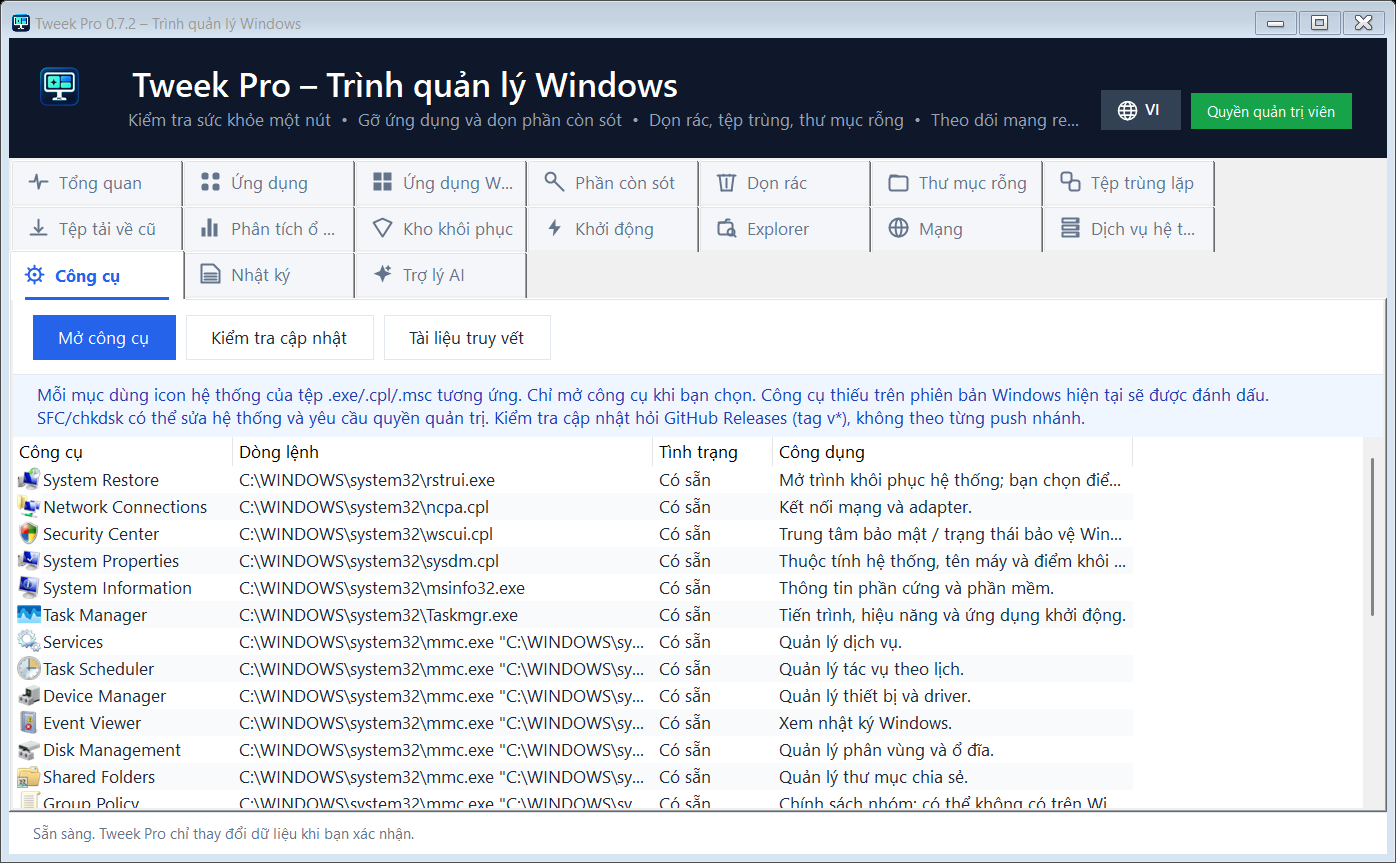
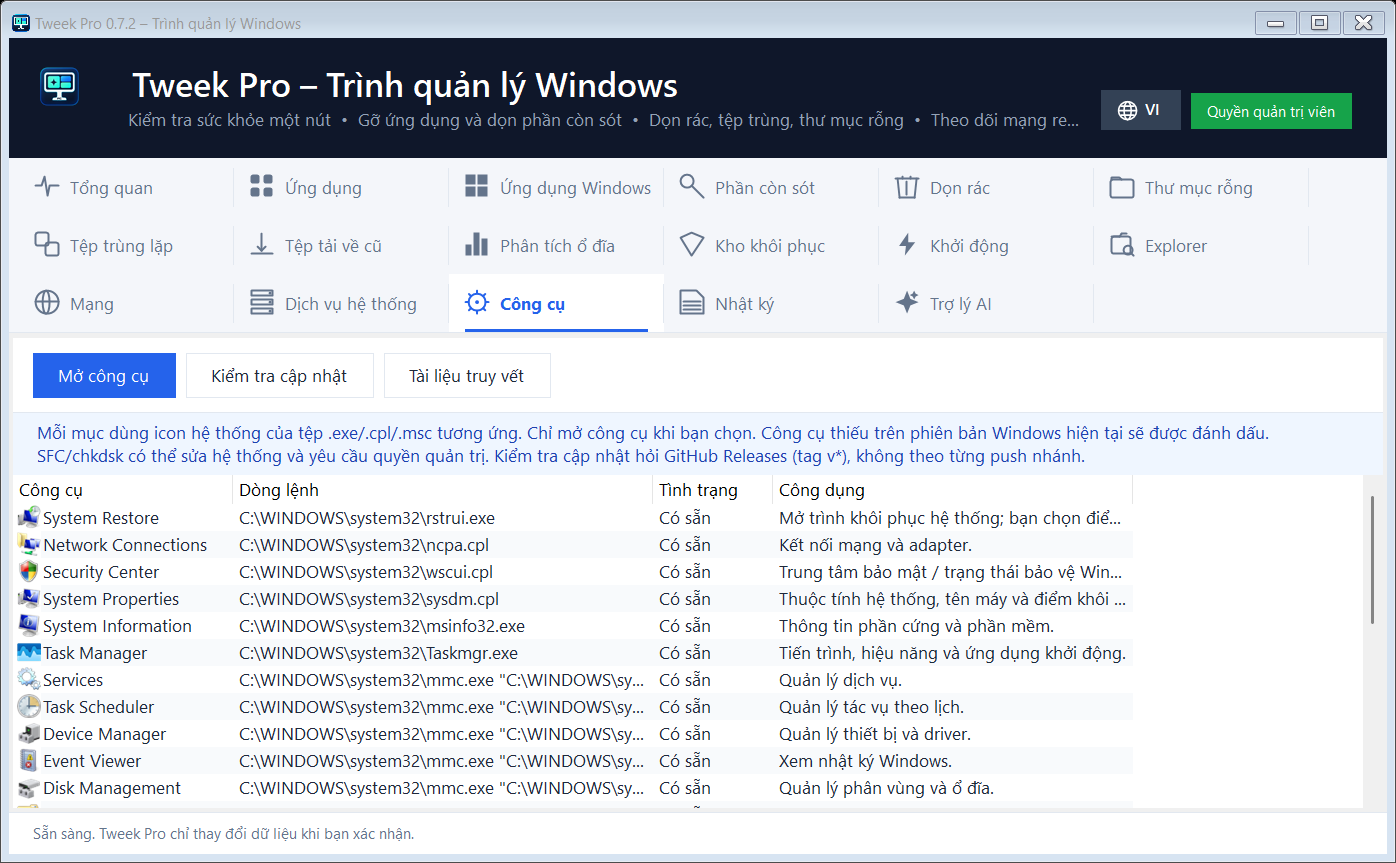
Fixed-order tab strip: multiline TabControl shuffled rows on selection
Presentation.TabStrip paints all 17 tabs in a stable grid (hover, glyphs, DPI scaling, repaint on title change) and drives the TabControl whose native headers are hidden. Screenshots regenerated.

diff --git a/Presentation.cs b/Presentation.cs
@@ -137,6 +137,47 @@ namespace TweekPro {
   }
  }
  public class SmoothListView:ListView { public SmoothListView(){DoubleBuffered=true;} }
+ /// <summary>
+ /// Fixed-order tab header. Windows' multiline TabControl moves the row that holds the selected tab down next to the page, so with
+ /// three rows the tabs appear to shuffle on every click; this strip paints every tab in a stable left-to-right grid and drives a
+ /// TabControl whose native headers are hidden.
+ /// </summary>
+ public sealed class TabStrip:Control {
+  readonly TabControl tabs;int hover=-1,tabWidth=172,tabHeight=46,edge=8;
+  public TabStrip(TabControl target){
+   tabs=target;DoubleBuffered=true;ResizeRedraw=true;Dock=DockStyle.Top;BackColor=Theme.Canvas;Height=tabHeight+1;
+   tabs.SelectedIndexChanged+=(s,e)=>Invalidate();
+   tabs.ControlAdded+=(s,e)=>{var page=e.Control as TabPage;if(page!=null)page.TextChanged+=(s2,e2)=>Invalidate();Relayout();Invalidate();};
+   tabs.ControlRemoved+=(s,e)=>{Relayout();Invalidate();};
+   foreach(TabPage page in tabs.TabPages)page.TextChanged+=(s,e)=>Invalidate();
+  }
+  /// <summary>Hides the native headers of a TabControl so only the strip is visible; pages keep working with SelectedTab/SelectedIndex.</summary>
+  public static void HideNativeHeaders(TabControl t){t.Appearance=TabAppearance.FlatButtons;t.ItemSize=new Size(0,1);t.SizeMode=TabSizeMode.Fixed;t.Multiline=false;t.DrawMode=TabDrawMode.Normal;t.Padding=new Point(0,0);}
+  int Columns{get{return Math.Max(1,(Width-2*edge)/tabWidth);}}
+  int Rows{get{return Math.Max(1,(tabs.TabCount+Columns-1)/Columns);}}
+  Rectangle CellAt(int index){int c=index%Columns,r=index/Columns;return new Rectangle(edge+c*tabWidth,r*tabHeight,tabWidth,tabHeight);}
+  int IndexAt(Point p){for(int i=0;i<tabs.TabCount;i++)if(CellAt(i).Contains(p))return i;return -1;}
+  void Relayout(){int h=Rows*tabHeight+1;if(Height!=h)Height=h;}
+  protected override void ScaleControl(SizeF factor,BoundsSpecified specified){base.ScaleControl(factor,specified);tabWidth=(int)Math.Round(tabWidth*factor.Width);tabHeight=(int)Math.Round(tabHeight*factor.Height);edge=(int)Math.Round(edge*factor.Width);Relayout();}
+  protected override void OnResize(EventArgs e){base.OnResize(e);Relayout();}
+  protected override void OnMouseMove(MouseEventArgs e){base.OnMouseMove(e);int i=IndexAt(e.Location);if(i!=hover){hover=i;Cursor=i>=0?Cursors.Hand:Cursors.Default;Invalidate();}}
+  protected override void OnMouseLeave(EventArgs e){base.OnMouseLeave(e);hover=-1;Invalidate();}
+  protected override void OnMouseClick(MouseEventArgs e){base.OnMouseClick(e);int i=IndexAt(e.Location);if(i>=0&&i!=tabs.SelectedIndex)tabs.SelectedIndex=i;}
+  protected override void OnPaint(PaintEventArgs e){
+   e.Graphics.Clear(BackColor);int glyph=(int)Math.Round(18*tabHeight/46.0);
+   for(int i=0;i<tabs.TabCount;i++){
+    var b=CellAt(i);bool active=i==tabs.SelectedIndex;string text=tabs.TabPages[i].Text;
+    using(var bg=new SolidBrush(active?Theme.Surface:i==hover?Theme.SoftButton:Theme.Canvas))e.Graphics.FillRectangle(bg,b);
+    using(var sep=new Pen(Theme.Border))e.Graphics.DrawLine(sep,b.Right-1,b.Top+10,b.Right-1,b.Bottom-10);
+    Color accent=active?Theme.Primary:Theme.Muted;var glyphRect=new Rectangle(b.X+16,b.Y+(b.Height-glyph)/2-1,glyph,glyph);
+    Branding.DrawTabGlyph(e.Graphics,text,glyphRect,accent);
+    var textRect=new Rectangle(glyphRect.Right+8,b.Y,b.Right-glyphRect.Right-14,b.Height);
+    TextRenderer.DrawText(e.Graphics,text,active?Theme.Strong:Theme.Body,textRect,accent,TextFormatFlags.Left|TextFormatFlags.VerticalCenter|TextFormatFlags.EndEllipsis);
+    if(active)using(var line=new Pen(Theme.Primary,3))e.Graphics.DrawLine(line,b.Left+16,b.Bottom-2,b.Right-16,b.Bottom-2);
+   }
+   using(var border=new Pen(Theme.Border))e.Graphics.DrawLine(border,0,Height-1,Width,Height-1);
+  }
+ }
  public enum ButtonStyle { Secondary, Primary, Danger }
  public enum NoteKind { Info, Warning, Success, Error }
  /// <summary>Shared palette, typography and control factories so every window uses the same visual language.</summary>

diff --git a/App.cs b/App.cs
@@ -13,7 +13,7 @@ namespace TweekPro {
  public partial class MainForm:Form {
   ListView apps=new SmoothListView(),remnants=new SmoothListView(),backups=new SmoothListView();
   TextBox search=new TextBox(),details=new TextBox(),log=new TextBox();
-  Label selectionSummary=new Label(),backupSummary=new Label();Label status=Theme.StatusBar();TabControl tabs=new TabControl();
+  Label selectionSummary=new Label(),backupSummary=new Label();Label status=Theme.StatusBar();TabControl tabs=new TabControl();TabStrip tabStrip;
   Label appsOverlay,remnantsOverlay,backupsOverlay;TabPage remnantsTab;
   List<AppEntry> inventory=new List<AppEntry>(),history=new List<AppEntry>();
   List<Candidate> candidates=new List<Candidate>();List<Button> actions=new List<Button>();
@@ -114,7 +114,7 @@ namespace TweekPro {
    var ordered=new TabPage[]{healthTab,installed,storeTab,clean,junkTab,emptyTab,dupeTab,staleTab,analyzerTab,vault,autorunTab,explorerTab,netTab,servicesTab,toolsTab,logs,aiTab};
    tabs.TabPages.Clear();tabs.TabPages.AddRange(ordered);
    foreach(TabPage page in tabs.TabPages)page.BackColor=Theme.Canvas;
-   Controls.Add(tabs);Controls.Add(header);Controls.Add(status);
+   Controls.Add(tabs);Controls.Add(tabStrip);Controls.Add(header);Controls.Add(status);
    FormClosed+=(s,e)=>SaveSettings();
    int savedWidth=settings.WindowWidth,savedHeight=settings.WindowHeight;bool sizeRestored=false;
    Load+=(s,e)=>{int dpi=ScreenDpi();int w=Logical(savedWidth)*dpi/96,h=Logical(savedHeight)*dpi/96;if(w>=MinimumSize.Width&&h>=MinimumSize.Height)Size=new Size(w,h);sizeRestored=true;};
@@ -134,21 +134,10 @@ namespace TweekPro {
   static int Logical(int saved){return saved>0&&saved<=4096?saved:0;}
   /// <summary>Current DPI of the window's screen; works on .NET Framework and Mono alike.</summary>
   int ScreenDpi(){try{using(var g=CreateGraphics())return Math.Max(96,(int)Math.Round(g.DpiX));}catch(Exception){return 96;}}
-  /// <summary>Configures the tab strip with flat, owner-drawn headers and an accent underline for the active tab.</summary>
+  /// <summary>Hides the native tab headers and mounts a fixed-order TabStrip above the pages (multiline TabControl reorders its rows on selection).</summary>
   void BuildTabs(){
-   tabs.Dock=DockStyle.Fill;tabs.Padding=new Point(24,10);tabs.DrawMode=TabDrawMode.OwnerDrawFixed;tabs.ItemSize=new Size(172,46);tabs.SizeMode=TabSizeMode.Fixed;tabs.Font=Theme.Body;
-   // Twelve tabs exceed the default width, so wrap into rows (6 × 172 px fits the 1120 px minimum) instead of showing scroll arrows.
-   tabs.Multiline=true;
-   tabs.DrawItem+=(s,e)=>{
-    bool active=e.Index==tabs.SelectedIndex;var bounds=e.Bounds;string text=tabs.TabPages[e.Index].Text;
-    using(var bg=new SolidBrush(active?Theme.Surface:Theme.Canvas))e.Graphics.FillRectangle(bg,bounds);
-    Color accent=active?Theme.Primary:Theme.Muted;
-    int glyph=18;var glyphRect=new Rectangle(bounds.X+16,bounds.Y+(bounds.Height-glyph)/2-1,glyph,glyph);
-    Branding.DrawTabGlyph(e.Graphics,text,glyphRect,accent);
-    var textRect=new Rectangle(glyphRect.Right+8,bounds.Y,bounds.Right-glyphRect.Right-14,bounds.Height);
-    TextRenderer.DrawText(e.Graphics,text,active?Theme.Strong:Theme.Body,textRect,accent,TextFormatFlags.Left|TextFormatFlags.VerticalCenter|TextFormatFlags.EndEllipsis);
-    if(active)using(var line=new Pen(Theme.Primary,3))e.Graphics.DrawLine(line,bounds.Left+16,bounds.Bottom-2,bounds.Right-16,bounds.Bottom-2);
-   };
+   tabs.Dock=DockStyle.Fill;tabs.Font=Theme.Body;TabStrip.HideNativeHeaders(tabs);
+   tabStrip=new TabStrip(tabs);
   }
   FlowLayoutPanel Bar(){return Theme.Toolbar();}
   /// <summary>Adds a guarded action button to a toolbar; the style marks the primary or destructive action.</summary>

diff --git a/README.md b/README.md
@@ -224,6 +224,7 @@ Chưa có theo dõi cài đặt (install monitor), forced uninstall, quản lý 
 - **Explorer → Duyệt tệp**: trình duyệt thư mục riêng của Tweek Pro hiện **mọi** tệp/thư mục ẩn và hệ thống bất kể thiết lập Explorer, có cột Đuôi, Mô tả (loại theo shell), Dung lượng, Sửa lần cuối, Thuộc tính; mục ẩn in nghiêng, hệ thống màu vàng, tệp giả dạng (`hoadon.pdf.exe`) màu đỏ; bấm một tệp là xem chi tiết ngay (mã băm tính khi bấm «Xem chi tiết + băm»); Lên một cấp / This PC / Thư mục người dùng / lọc «Chỉ hiện mục ẩn / hệ thống» / Mở trong Explorer / Thuộc tính Windows.
 - **Mạng → Chặn mạng theo ứng dụng** (`Network/FirewallBlock.cs`): chuột phải một ứng dụng → **Chặn mạng** tạo cặp quy tắc Windows Firewall (vào + ra) chỉ cho tệp .exe đó, tên quy tắc `TweekPro Block - <exe> [hash]`; cột **Chặn mạng** đỏ, menu **Bỏ chặn**, nút **Đang chặn mạng…** liệt kê và bỏ chặn hàng loạt; mỗi lần chặn là một mục Kho khôi phục (`Kind=Firewall`) — khôi phục = gỡ đúng quy tắc theo tên. Từ chối tiến trình cốt lõi, tệp trong `Windows\System32`, chính Tweek Pro, đường dẫn mạng và tệp không phải .exe.
 - **Quét sâu phần còn sót — dò dấu vết mở rộng** (`Remnants/TraceHunter.cs`): tên biến thể (bỏ phiên bản/năm/kiến trúc/ngoặc, bỏ tiền tố nhà phát hành, tên gộp, tên tệp .exe đã ghi nhận; tên ngắn/chung chỉ đưa vào mục Chỉ xem); giá trị dọn được qua Kho: MUICache, Trợ lý tương thích (Persisted), bộ đếm FeatureUsage, quy tắc Firewall trỏ tới exe đã gỡ, SharedDLLs, StartupApproved; mục Chỉ xem: đăng ký «Mở bằng», ProgID/CLSID trỏ tới tệp đã gỡ, RegisteredApplications, biến PATH, nguồn Event Log, đăng ký Windows Installer/Tracing, CrashDumps, báo cáo WER, Prefetch, shortcut Gần đây, thư mục Start Menu, Documents / Saved Games / thư mục «.tên». Toàn bộ giai đoạn có giới hạn thời gian (25 giây) và số khóa.
+- **Thanh tab cố định thứ tự** (`TabStrip`): TabControl nhiều hàng của Windows luôn kéo hàng chứa tab đang chọn xuống sát nội dung nên 17 tab đảo vị trí sau mỗi lần bấm; nay tab được vẽ trong lưới trái→phải, trên→dưới không đổi, tiêu đề gốc của TabControl bị ẩn.
 - README có **ảnh tất cả các tab** (`docs/screenshots/`, kết xuất bằng `--preview all [thư_mục] [--en]`, 1280×820, tiếng Việt). Tab Explorer chia thành hai khung chuyển bằng nút «Duyệt tệp và chi tiết tệp» / «Tùy chỉnh File Explorer» để mỗi danh sách dùng trọn chiều cao cửa sổ; nút Lên / This PC / Người dùng / Chọn tệp nằm cùng hàng Đường dẫn, nút thao tác tệp nằm trên khung chi tiết; sửa lỗi mọi tệp trong trình duyệt tệp bị tô đỏ như tệp giả dạng.
 - **Tab Explorer** (`Explorer/`): 17 công tắc File Explorer / thanh tác vụ (hiện đuôi tệp, tệp ẩn, tệp hệ thống được bảo vệ, hộp chọn, đường dẫn đầy đủ, mở vào This PC, tệp gần đây, quảng cáo OneDrive, giây trên đồng hồ, căn trái, Task View, Widgets…) — ghi HKCU qua Kho (`Kind=Explorer`, khôi phục một nút), `ExplorerSafety` chỉ cho đúng khóa/giá trị trong danh mục, Explorer tự làm mới, nút Khởi động lại Explorer (không nâng quyền shell).
 - **Xem chi tiết tệp**: chọn / kéo thả / dán đường dẫn → loại thật, thuộc tính, thời gian, chủ sở hữu, chữ ký số, phiên bản, kiến trúc PE, Mark of the Web (Zone.Identifier), SHA-256/MD5; cảnh báo đuôi kép, ký tự đảo chiều Unicode, PE giả tài liệu, tệp thực thi tải về chưa ký; sao chép báo cáo, mở hộp Thuộc tính Windows.

diff --git a/WORKSTATE.md b/WORKSTATE.md
@@ -8,7 +8,8 @@ Last editor: Cursor.
 
 D. DONE README screenshots: `--preview all [dir] [--en]` (`App.PreviewModes`, `ApplyPreview`, `MainForm.PreviewTab` for empty/dupes/analyzer/vault/logs, `Snapshot(form,file,Size?)` resizes after Show because `Load` restores the saved window size; language forced to VI unless `--en`) writes 18 PNGs to `docs/screenshots/` (health, apps, store, remnants, junk, empty, dupes, stale, analyzer, vault, autorun, explorer, tweaks, network, services, tools, logs, ai). README: hero image under the badges + `### Ảnh các tab` gallery (2-column HTML table) + `--preview all` row + changelog bullet; AGENTS.md notes to regenerate the PNGs whenever a tab layout changes.
    Explorer tab redesigned while capturing (the stacked split left ~1 visible row per list at 1240×820): a switcher row (`ShowExplorerView`, buttons "Duyệt tệp và chi tiết tệp" / "Tùy chỉnh File Explorer") shows one full-height pane; nav buttons ▲ Lên / This PC / Người dùng / Chọn tệp… + hidden-filter checkbox sit on the path row; file action buttons + `fileStage` moved into the details pane; browser split keeps a ratio (SplitterMoved ignored until first placement). Bug fixed: `DisguisedAs` returns "" (never null) so every file row was red — now `!String.IsNullOrEmpty`. `PreviewExplorer(bool tweaks)`; new preview mode `tweaks`.
-Verification: build 0 W / 0 E; full `--self-test` PASS 23:31; `docs/screenshots/*.png` reviewed (explorer/tweaks/health/vault/network). Commit + push: see git log (this commit).
+Verification: build 0 W / 0 E; full `--self-test` PASS 23:31; `docs/screenshots/*.png` reviewed (explorer/tweaks/health/vault/network). Commit `03f0317` on `origin/main`.
+E. DONE Fixed-order tab header (owner 23:37: "tabs run jumbled"): Windows multiline TabControl moves the selected row down, so 17 tabs in 3 rows shuffled on every click. `Presentation.TabStrip` (fixed grid, hover, glyphs via `Branding.DrawTabGlyph`, DPI via `ScaleControl`, repaints on TabPage.TextChanged) + `TabStrip.HideNativeHeaders(tabs)`; `BuildTabs` now only mounts it; `Controls.Add(tabs);Controls.Add(tabStrip);Controls.Add(header)`. Self-test PASS 23:43, screenshots regenerated (18), README changelog bullet. Commit: this one.
 
 ## Previous task (22:50)
 
